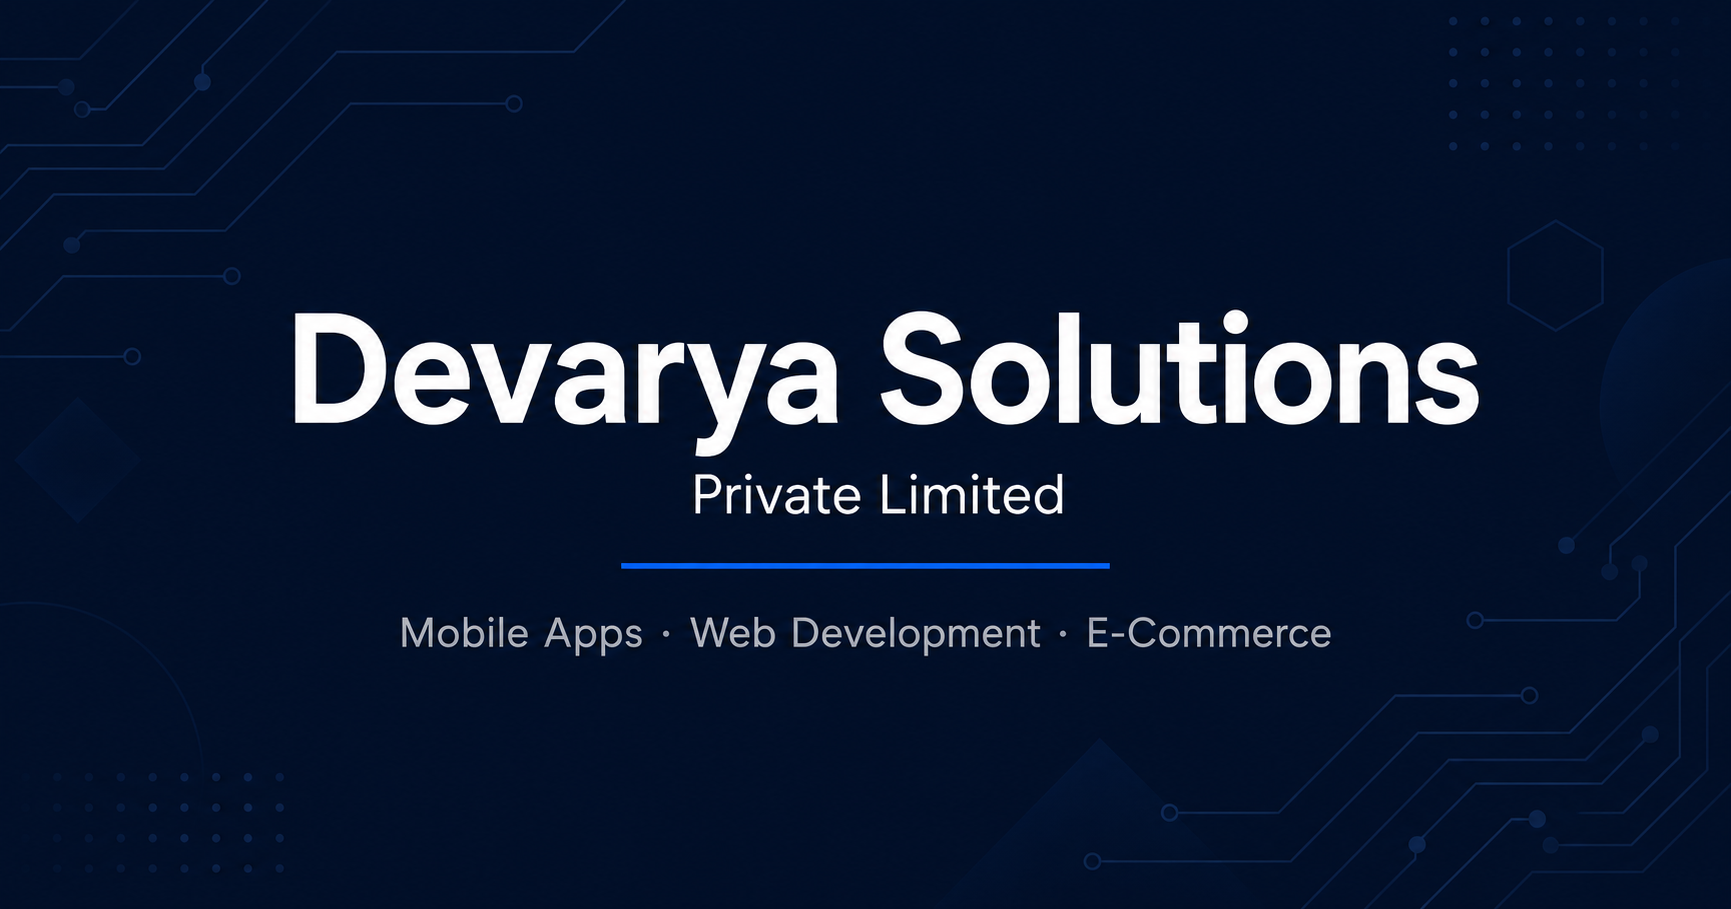
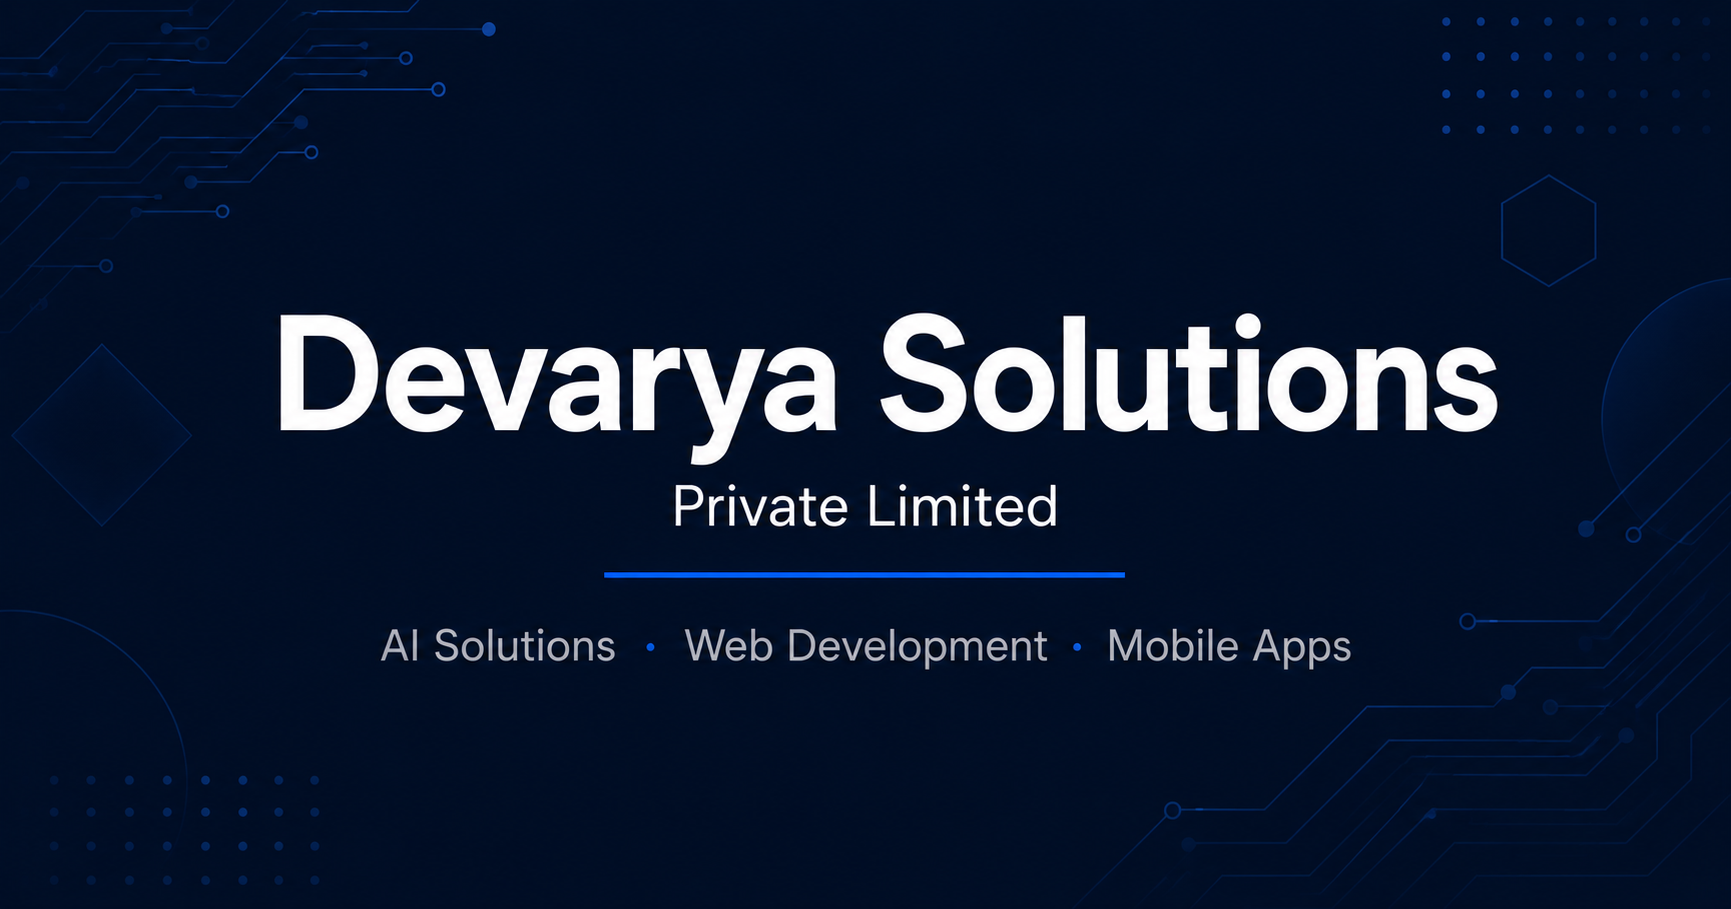
Add landing page overview: services, products, hire sections with AI badges

diff --git a/components/home/ProductsOverview.tsx b/components/home/ProductsOverview.tsx
@@ -1,0 +1,120 @@
+import Link from "next/link";
+import { UtensilsCrossed, Car, Stethoscope, GraduationCap, Bot, ShoppingBag, ArrowRight } from "lucide-react";
+
+const products = [
+  {
+    icon: UtensilsCrossed,
+    title: "Food Delivery",
+    description: "Full-featured food ordering platform with real-time tracking.",
+    href: "/products/food-delivery",
+    color: "text-orange-600",
+    bg: "bg-orange-50",
+    border: "border-slate-100",
+    hover: "hover:border-slate-200",
+  },
+  {
+    icon: Car,
+    title: "Taxi Booking",
+    description: "On-demand ride-hailing app with driver and rider apps.",
+    href: "/products/taxi-booking",
+    color: "text-yellow-600",
+    bg: "bg-yellow-50",
+    border: "border-slate-100",
+    hover: "hover:border-slate-200",
+  },
+  {
+    icon: Stethoscope,
+    title: "Healthcare",
+    description: "Doctor appointments, teleconsultations, and health records.",
+    href: "/products/healthcare",
+    color: "text-red-600",
+    bg: "bg-red-50",
+    border: "border-slate-100",
+    hover: "hover:border-slate-200",
+  },
+  {
+    icon: GraduationCap,
+    title: "E-Learning",
+    description: "Course creation, video streaming, and learner management.",
+    href: "/products/e-learning",
+    color: "text-blue-600",
+    bg: "bg-blue-50",
+    border: "border-slate-100",
+    hover: "hover:border-slate-200",
+  },
+  {
+    icon: Bot,
+    title: "AI Chatbot Platform",
+    description: "Intelligent conversational AI for customer support and sales.",
+    href: "/products/ai-chatbot",
+    color: "text-violet-600",
+    bg: "bg-violet-50",
+    border: "border-violet-100",
+    hover: "hover:border-violet-300",
+    badge: "AI",
+    aiGlow: true,
+  },
+  {
+    icon: ShoppingBag,
+    title: "Multi-Vendor Marketplace",
+    description: "End-to-end marketplace with vendor management and payments.",
+    href: "/products/multi-vendor-marketplace",
+    color: "text-emerald-600",
+    bg: "bg-emerald-50",
+    border: "border-slate-100",
+    hover: "hover:border-slate-200",
+  },
+];
+
+export function ProductsOverview() {
+  return (
+    <section className="py-20 px-4 bg-slate-50">
+      <div className="max-w-6xl mx-auto">
+        <div className="text-center mb-12">
+          <p className="text-blue-600 font-semibold text-sm uppercase tracking-widest mb-3">Ready-Made</p>
+          <h2 className="text-4xl md:text-5xl font-black text-slate-900 tracking-tight mb-4">Our Products</h2>
+          <p className="text-slate-500 text-lg max-w-xl mx-auto">
+            White-label platforms you can launch fast — fully customised to your brand.
+          </p>
+        </div>
+
+        <div className="grid grid-cols-1 sm:grid-cols-2 lg:grid-cols-3 gap-6 mb-10">
+          {products.map((product) => {
+            const Icon = product.icon;
+            return (
+              <Link
+                key={product.title}
+                href={product.href}
+                className={`group flex items-start gap-4 p-6 rounded-2xl border ${product.border} ${product.hover} bg-white hover:shadow-md transition-all duration-200 ${product.aiGlow ? "bg-gradient-to-br from-white to-violet-50/60" : ""}`}
+              >
+                <div className={`w-11 h-11 rounded-xl ${product.bg} flex items-center justify-center shrink-0`}>
+                  <Icon className={`w-5 h-5 ${product.color}`} />
+                </div>
+                <div>
+                  <div className="flex items-center gap-2 mb-1">
+                    <h3 className="text-base font-bold text-slate-900">{product.title}</h3>
+                    {product.badge && (
+                      <span className="inline-block bg-gradient-to-r from-violet-500 to-fuchsia-500 text-white text-[9px] font-bold px-1.5 py-0.5 rounded-full leading-none">
+                        {product.badge}
+                      </span>
+                    )}
+                  </div>
+                  <p className="text-slate-500 text-sm leading-relaxed">{product.description}</p>
+                </div>
+              </Link>
+            );
+          })}
+        </div>
+
+        <div className="text-center">
+          <Link
+            href="/products/food-delivery"
+            className="inline-flex items-center gap-2 text-blue-600 font-semibold hover:gap-3 transition-all duration-200"
+          >
+            View all products <ArrowRight className="w-4 h-4" />
+          </Link>
+        </div>
+      </div>
+    </section>
+  );
+}

diff --git a/components/home/ServicesOverview.tsx b/components/home/ServicesOverview.tsx
@@ -1,0 +1,94 @@
+import Link from "next/link";
+import { Smartphone, Globe, Bot, BarChart2, ArrowRight } from "lucide-react";
+
+const services = [
+  {
+    icon: Smartphone,
+    title: "Mobile Apps",
+    description: "Native Android, iOS, and cross-platform apps built for performance and scale.",
+    href: "/services/android-apps",
+    color: "text-blue-600",
+    bg: "bg-blue-50",
+    border: "border-slate-100",
+    hover: "hover:border-slate-200",
+  },
+  {
+    icon: Globe,
+    title: "Web Development",
+    description: "Startup websites, enterprise platforms, and full-featured ecommerce stores.",
+    href: "/services/web-app-dev",
+    color: "text-indigo-600",
+    bg: "bg-indigo-50",
+    border: "border-slate-100",
+    hover: "hover:border-slate-200",
+  },
+  {
+    icon: Bot,
+    title: "AI Solutions",
+    description: "AI chatbots, generative AI integration, and intelligent process automation.",
+    href: "/services/ai-chatbot",
+    color: "text-violet-600",
+    bg: "bg-violet-50",
+    border: "border-violet-100",
+    hover: "hover:border-violet-300",
+    badge: "AI",
+    aiGlow: true,
+  },
+  {
+    icon: BarChart2,
+    title: "Digital Marketing",
+    description: "SEO, SEM, social media marketing, and content that drives real growth.",
+    href: "/services/seo",
+    color: "text-emerald-600",
+    bg: "bg-emerald-50",
+    border: "border-slate-100",
+    hover: "hover:border-slate-200",
+  },
+];
+
+export function ServicesOverview() {
+  return (
+    <section className="py-20 px-4 bg-white">
+      <div className="max-w-6xl mx-auto">
+        <div className="text-center mb-12">
+          <p className="text-blue-600 font-semibold text-sm uppercase tracking-widest mb-3">What We Do</p>
+          <h2 className="text-4xl md:text-5xl font-black text-slate-900 tracking-tight mb-4">Our Services</h2>
+          <p className="text-slate-500 text-lg max-w-xl mx-auto">
+            From idea to launch — we cover every layer of your digital product.
+          </p>
+        </div>
+
+        <div className="grid grid-cols-1 sm:grid-cols-2 lg:grid-cols-4 gap-6">
+          {services.map((service) => {
+            const Icon = service.icon;
+            return (
+              <Link
+                key={service.title}
+                href={service.href}
+                className={`group flex flex-col gap-4 p-6 rounded-2xl border ${service.border} ${service.hover} bg-white hover:shadow-md transition-all duration-200 ${service.aiGlow ? "bg-gradient-to-br from-white to-violet-50/60" : ""}`}
+              >
+                <div className="flex items-center gap-2">
+                  <div className={`w-12 h-12 rounded-xl ${service.bg} flex items-center justify-center`}>
+                    <Icon className={`w-6 h-6 ${service.color}`} />
+                  </div>
+                  {service.badge && (
+                    <span className="inline-block bg-gradient-to-r from-violet-500 to-fuchsia-500 text-white text-[9px] font-bold px-1.5 py-0.5 rounded-full leading-none">
+                      {service.badge}
+                    </span>
+                  )}
+                </div>
+                <div>
+                  <h3 className="text-lg font-bold text-slate-900 mb-1">{service.title}</h3>
+                  <p className="text-slate-500 text-sm leading-relaxed">{service.description}</p>
+                </div>
+                <span className={`text-sm font-semibold ${service.color} flex items-center gap-1 mt-auto group-hover:gap-2 transition-all`}>
+                  See all <ArrowRight className="w-4 h-4" />
+                </span>
+              </Link>
+            );
+          })}
+        </div>
+      </div>
+    </section>
+  );
+}

diff --git a/components/home/HireOverview.tsx b/components/home/HireOverview.tsx
@@ -1,0 +1,58 @@
+import Link from "next/link";
+import { ArrowRight, Users } from "lucide-react";
+import { Button } from "@/components/ui/button";
+
+const roles = [
+  { label: "React Native", href: "/hire/react-native-developers" },
+  { label: "Node.js", href: "/hire/nodejs-developers" },
+  { label: "Flutter", href: "/hire/flutter-developers" },
+  { label: "Python", href: "/hire/python-developers" },
+  { label: "Android", href: "/hire/android-developers" },
+  { label: "iOS", href: "/hire/ios-developers" },
+];
+
+export function HireOverview() {
+  return (
+    <section className="py-20 px-4 bg-white">
+      <div className="max-w-6xl mx-auto">
+        <div className="rounded-3xl bg-gradient-to-br from-blue-600 via-indigo-600 to-blue-500 p-10 md:p-16 text-white text-center">
+          <div className="inline-flex items-center justify-center w-14 h-14 rounded-2xl bg-white/15 mb-6">
+            <Users className="w-7 h-7 text-white" />
+          </div>
+          <h2 className="text-4xl md:text-5xl font-black tracking-tight mb-4">Hire Expert Developers</h2>
+          <p className="text-blue-100 text-lg max-w-xl mx-auto mb-8">
+            Dedicated engineers who integrate with your team and ship production-ready code on your schedule.
+          </p>
+
+          <div className="flex flex-wrap justify-center gap-3 mb-10">
+            {roles.map((role) => (
+              <Link
+                key={role.label}
+                href={role.href}
+                className="px-4 py-2 rounded-full bg-white/15 hover:bg-white/25 text-white text-sm font-semibold border border-white/20 transition-all duration-200"
+              >
+                {role.label}
+              </Link>
+            ))}
+            <Link
+              href="/hire/web-developers"
+              className="px-4 py-2 rounded-full bg-white/10 hover:bg-white/20 text-blue-100 text-sm font-medium border border-white/10 transition-all duration-200"
+            >
+              + more roles
+            </Link>
+          </div>
+
+          <Link href="/hire/react-native-developers">
+            <Button
+              size="lg"
+              className="bg-white text-blue-700 hover:bg-blue-50 rounded-full px-8 font-semibold shadow-lg transition-all duration-200"
+            >
+              Browse Developers
+              <ArrowRight className="ml-2 h-4 w-4" />
+            </Button>
+          </Link>
+        </div>
+      </div>
+    </section>
+  );
+}

diff --git a/components/Hero.tsx b/components/Hero.tsx
@@ -38,6 +38,24 @@ export function Hero() {
             Private Limited
           </span>
         </h1>
+
+        <p className="text-lg md:text-xl text-slate-600 max-w-2xl mb-10 font-medium leading-relaxed">
+          We build mobile apps, web platforms, and AI-powered products for startups and growing businesses — end to end.
+        </p>
+
+        <div className="flex flex-col sm:flex-row gap-4 justify-center">
+          <Link href="/services/web-app-dev">
+            <Button size="lg" className="bg-blue-600 hover:bg-blue-700 text-white rounded-full px-8 py-4 text-base font-semibold shadow-lg shadow-blue-200 transition-all duration-200">
+              Explore Services
+              <ArrowRight className="ml-2 h-4 w-4" />
+            </Button>
+          </Link>
+          <Link href="/contact">
+            <Button size="lg" variant="outline" className="rounded-full px-8 py-4 text-base font-semibold border-slate-300 text-slate-700 hover:border-blue-500 hover:text-blue-600 transition-all duration-200">
+              Get a Quote
+            </Button>
+          </Link>
+        </div>
       </div>
     </section>
   );

diff --git a/app/page.tsx b/app/page.tsx
@@ -1,6 +1,9 @@
 import { Header } from "@/components/Header";
 import { Hero } from "@/components/Hero";
 import { Footer } from "@/components/Footer";
+import { ServicesOverview } from "@/components/home/ServicesOverview";
+import { ProductsOverview } from "@/components/home/ProductsOverview";
+import { HireOverview } from "@/components/home/HireOverview";
 
 export const metadata = {
   title: "Mobile & Web App Development Company in India",
@@ -11,11 +14,12 @@ export const metadata = {
 
 export default function Home() {
   return (
-    <main className="min-h-screen flex flex-col bg-white justify-between">
-      <div className="flex flex-col flex-1">
-        <Header />
-        <Hero />
-      </div>
+    <main className="min-h-screen flex flex-col bg-white">
+      <Header />
+      <Hero />
+      <ServicesOverview />
+      <ProductsOverview />
+      <HireOverview />
       <Footer />
     </main>
   );